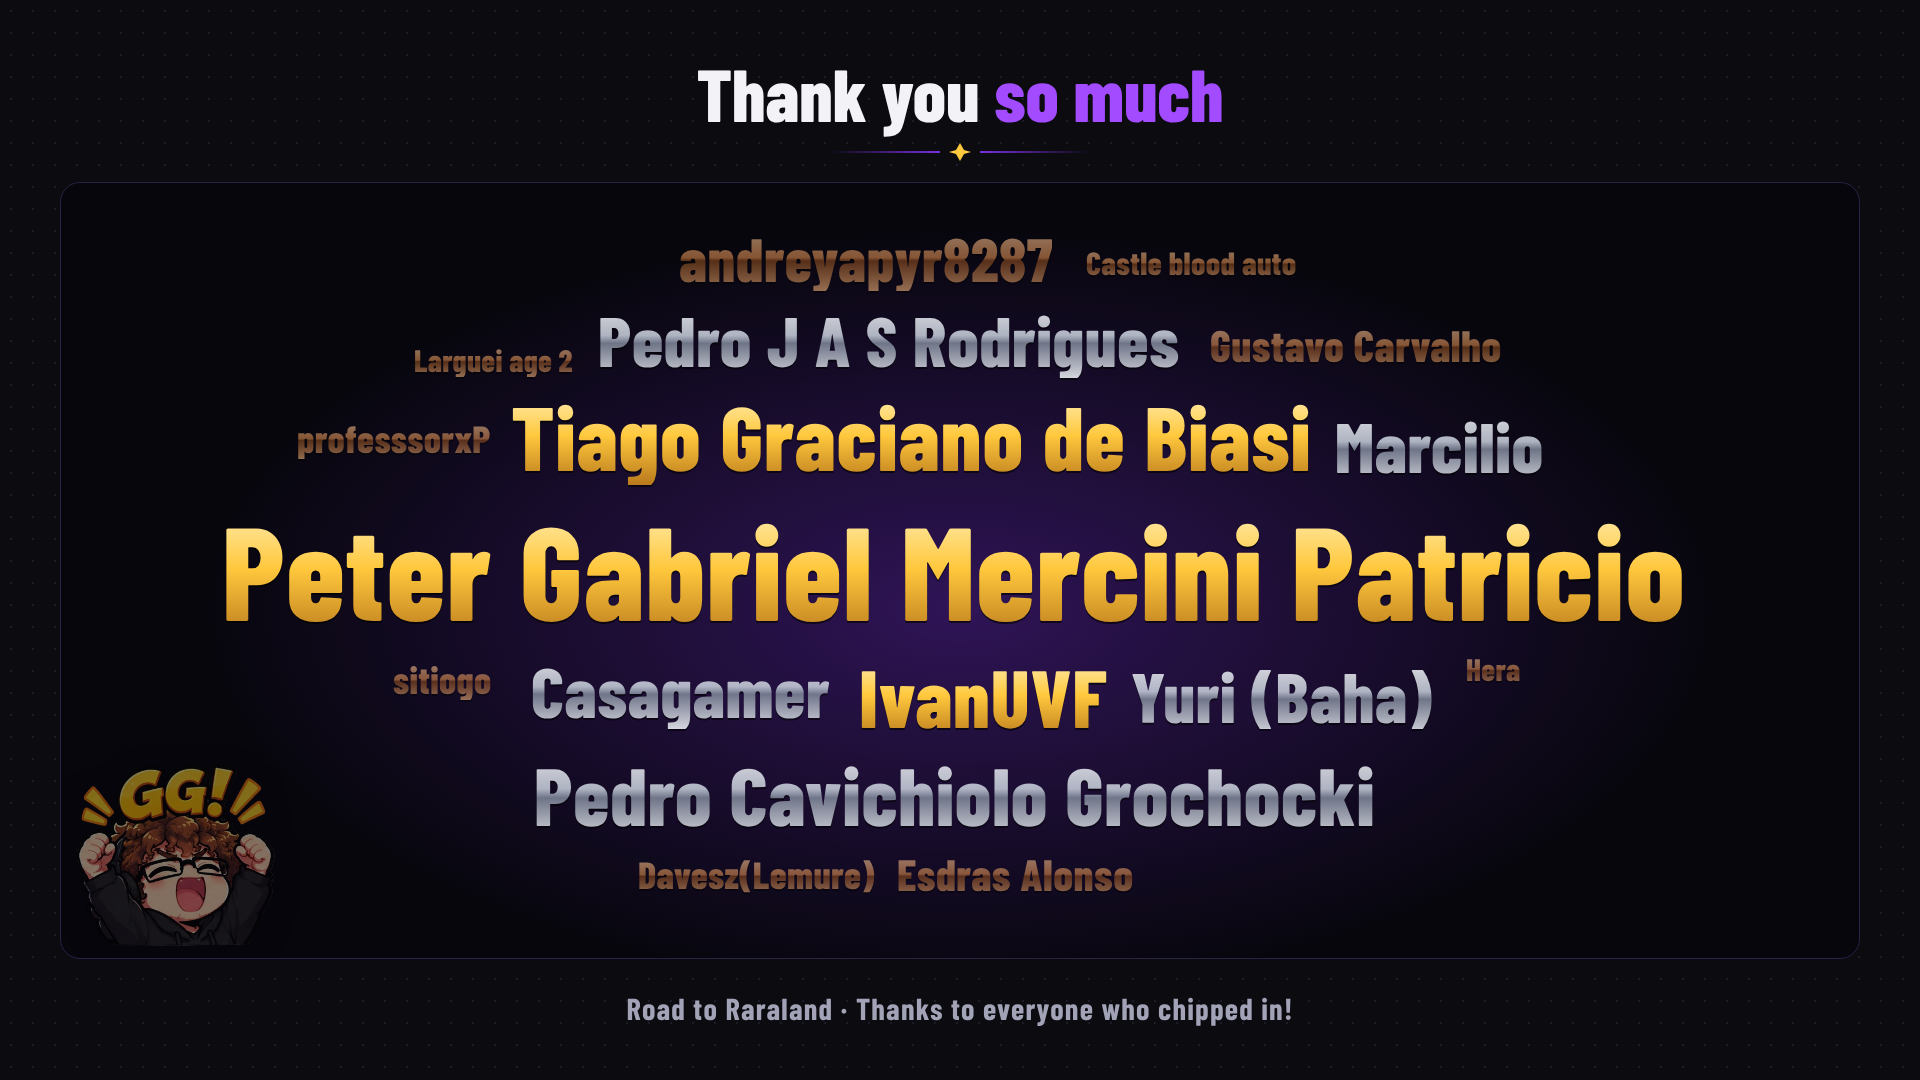
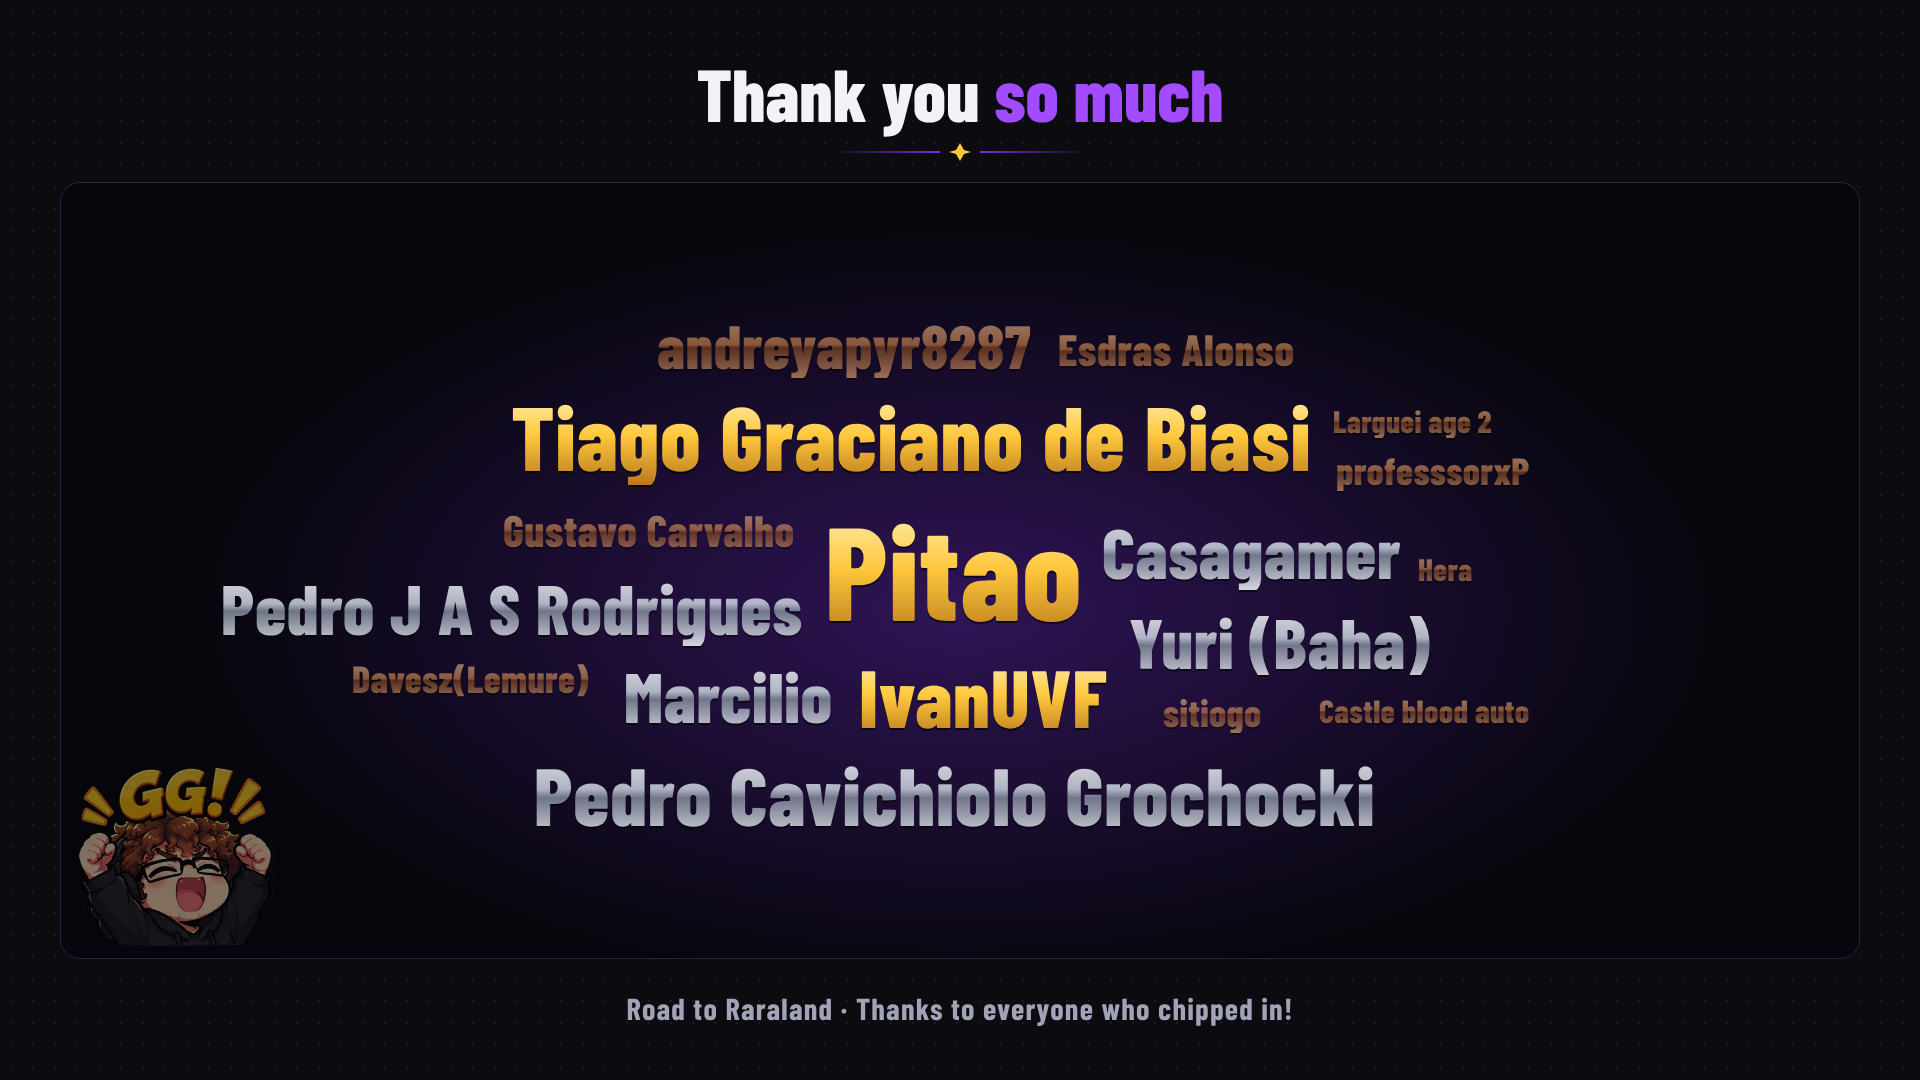
Renomeia doador para Pitao; nuvem desvia do GG; gerar-png.py com timeout/retry; atualiza PNGs
Claude-Session: https://claude.ai/code/session_017pUoQUTeSD6Kxc8JVXdXxC

diff --git a/en.html b/en.html
@@ -481,7 +481,8 @@ function drawCloud(){
       li.className='t'+tier;li.style.cssText='left:0;top:0;visibility:hidden;font-size:'+fs+'px';
       ul.appendChild(li);return li;
     });
-    var pl=[],ok=true,pos=[];
+    var pl=[],ok=true,pos=[],lg=box.querySelector('.cl-logo');
+    if(lg){var lr=lg.getBoundingClientRect(),br=box.getBoundingClientRect();if(lr.width)pl.push({x:lr.left-br.left,y:lr.top-br.top,w:lr.width,h:lr.height})}
     for(var i=0;i<els.length&&ok;i++){
       var w=els[i].offsetWidth+12,h=els[i].offsetHeight+4,t=0,placed=false;
       while(t<500){

diff --git a/index.html b/index.html
@@ -481,7 +481,8 @@ function drawCloud(){
       li.className='t'+tier;li.style.cssText='left:0;top:0;visibility:hidden;font-size:'+fs+'px';
       ul.appendChild(li);return li;
     });
-    var pl=[],ok=true,pos=[];
+    var pl=[],ok=true,pos=[],lg=box.querySelector('.cl-logo');
+    if(lg){var lr=lg.getBoundingClientRect(),br=box.getBoundingClientRect();if(lr.width)pl.push({x:lr.left-br.left,y:lr.top-br.top,w:lr.width,h:lr.height})}
     for(var i=0;i<els.length&&ok;i++){
       var w=els[i].offsetWidth+12,h=els[i].offsetHeight+4,t=0,placed=false;
       while(t<500){

diff --git a/divulgacao/gerar-png.py b/divulgacao/gerar-png.py
@@ -39,10 +39,15 @@ def main():
     for pagina, suf in (("index.html", ""), ("en.html", "-en")):
       for fmt, w, h, nome, extra in ALVOS:
         saida = os.path.join(OUT, nome + suf + ".png")
-        subprocess.run([chrome, "--headless=new", "--disable-gpu", "--hide-scrollbars", "--no-sandbox",
-                        "--force-prefers-reduced-motion", f"--window-size={w},{h}", "--virtual-time-budget=9000",
-                        f"--screenshot={saida}", f"http://127.0.0.1:{porta}/{pagina}?export={fmt}{extra}"],
-                       check=True, stdout=subprocess.DEVNULL, stderr=subprocess.DEVNULL)
+        cmd = [chrome, "--headless=new", "--disable-gpu", "--hide-scrollbars", "--no-sandbox",
+               "--force-prefers-reduced-motion", f"--window-size={w},{h}", "--virtual-time-budget=9000",
+               f"--screenshot={saida}", f"http://127.0.0.1:{porta}/{pagina}?export={fmt}{extra}"]
+        for tentativa in range(3):  # o Chrome headless às vezes trava; tenta de novo
+            try:
+                subprocess.run(cmd, check=True, timeout=40, stdout=subprocess.DEVNULL, stderr=subprocess.DEVNULL)
+                break
+            except subprocess.TimeoutExpired:
+                if tentativa == 2: raise
         print("ok", saida)
     srv.shutdown()
 
